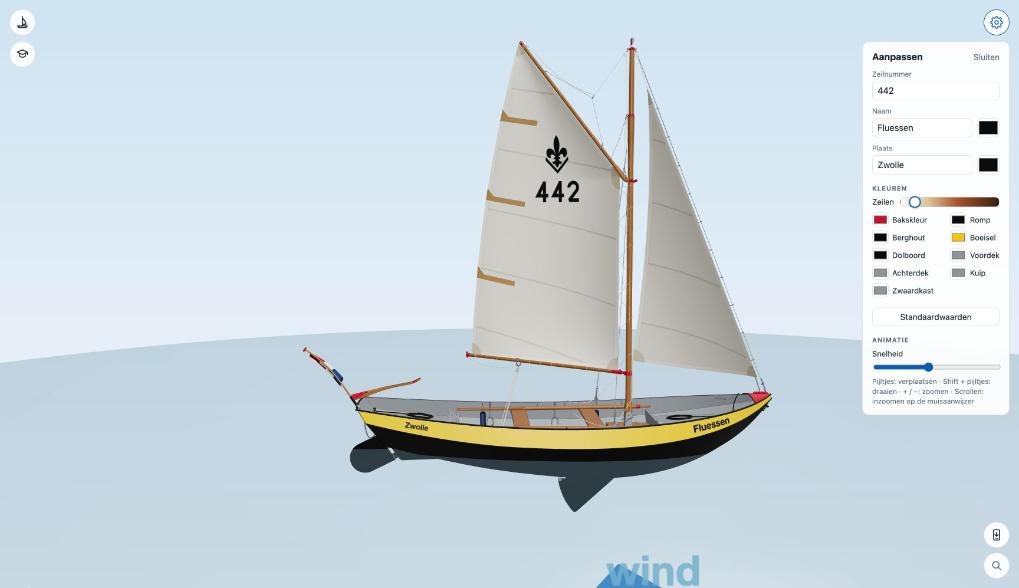
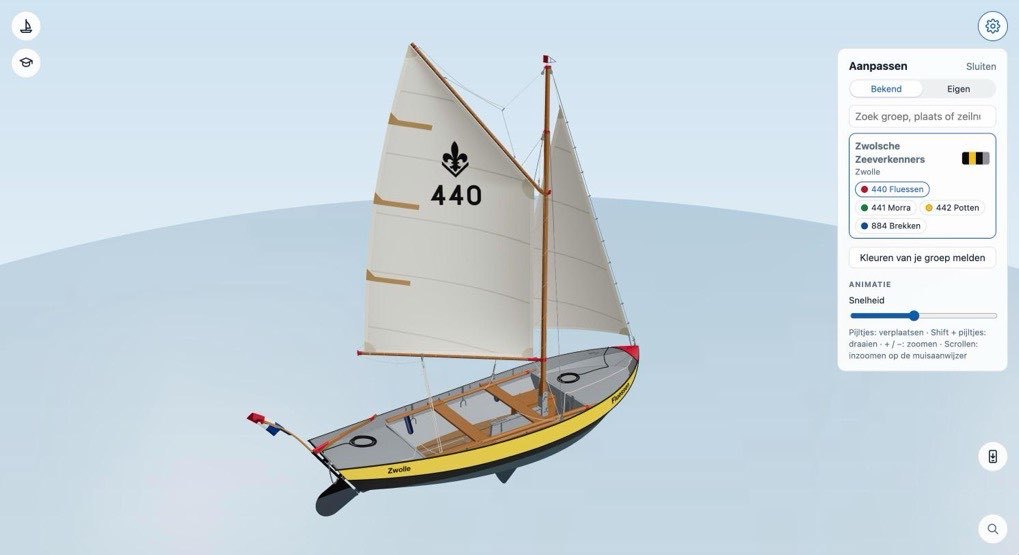
Handleiding: Aanpassen shows Bekend with the Zwolsche Zeeverkenners, and Eigen with their colours

diff --git a/web/demo/handleiding/aanpassen.html b/web/demo/handleiding/aanpassen.html
@@ -34,7 +34,7 @@
 <h1>Aanpassen, app en i-menu</h1>
 
 <h2>Je eigen boot</h2>
-<a href="../img/handleiding/aanpassen.jpg" title="Groter bekijken"><img class="shot" src="../img/handleiding/aanpassen.jpg" alt="Het paneel Aanpassen" width="1019" height="588"></a>
+<a href="../img/handleiding/aanpassen.jpg" title="Groter bekijken"><img class="shot" src="../img/handleiding/aanpassen.jpg" alt="Het paneel Aanpassen onder Bekend: de Zwolsche Zeeverkenners met hun vier boten, 440 Fluessen gekozen" width="1019" height="555"></a>
 <p>Het tandwiel rechtsboven opent <b>Aanpassen</b>. Bovenin kies je <b>Bekend</b> of <b>Eigen</b>.</p>
 
 <h3>Bekend</h3>
@@ -49,6 +49,7 @@
   <a href="#groep">Kleuren van je groep melden</a>.</p>
 
 <h3>Eigen</h3>
+<a href="../img/handleiding/aanpassen-eigen.jpg" title="Groter bekijken"><img class="shot" src="../img/handleiding/aanpassen-eigen.jpg" alt="Het paneel Aanpassen onder Eigen, met de kleuren van de gekozen groep" width="1019" height="555"></a>
 <p>Hier zet je alles zelf:</p>
 <ul>
   <li><b>Zeilnummer</b> op het grootzeil, en de <b>naam</b> en <b>plaats</b> op het boeisel, elk met een eigen letterkleur.</li>
